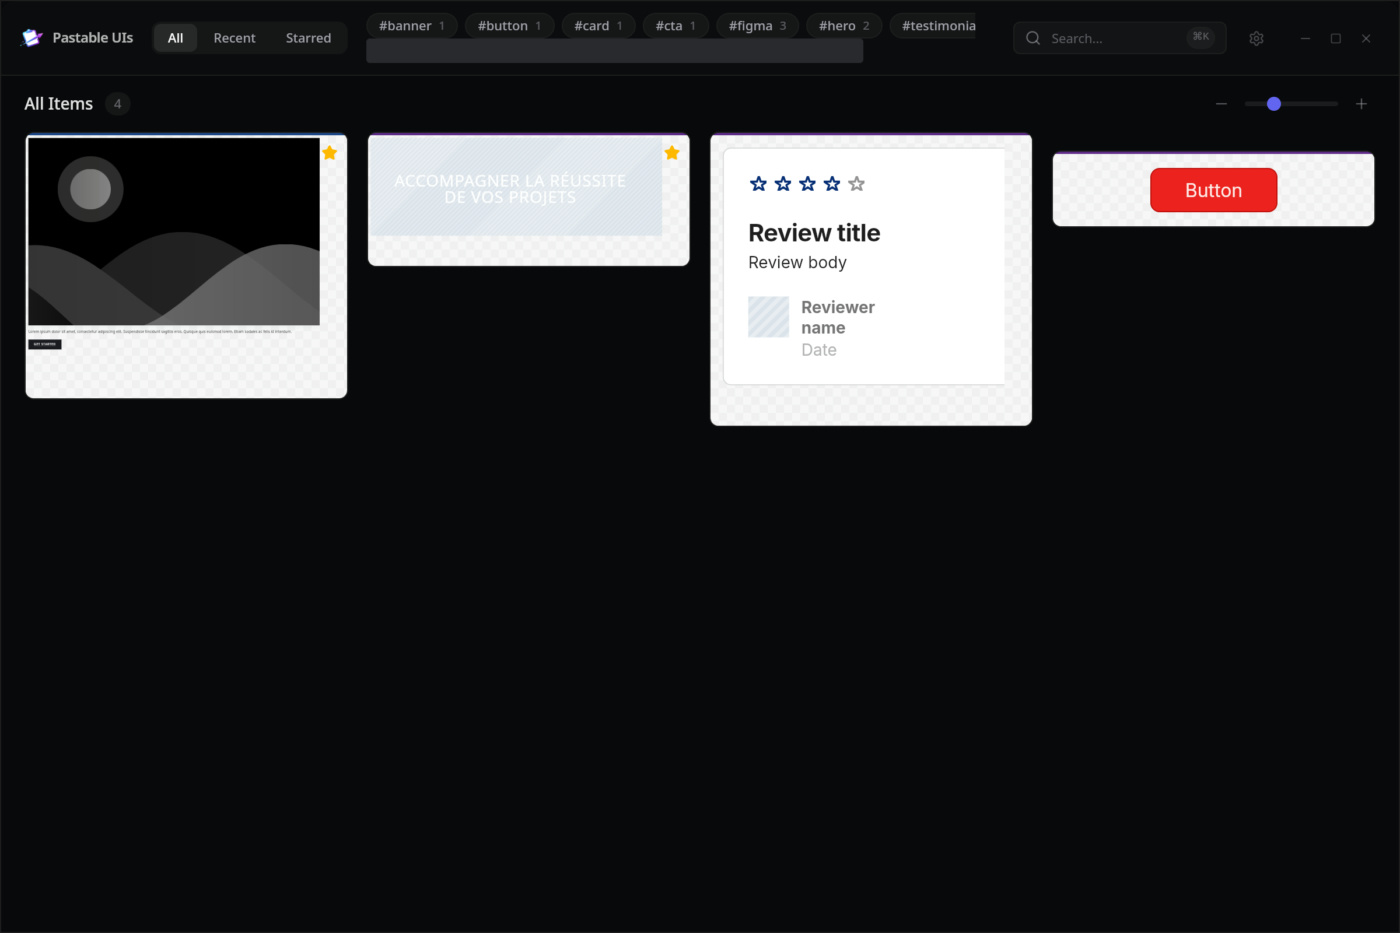
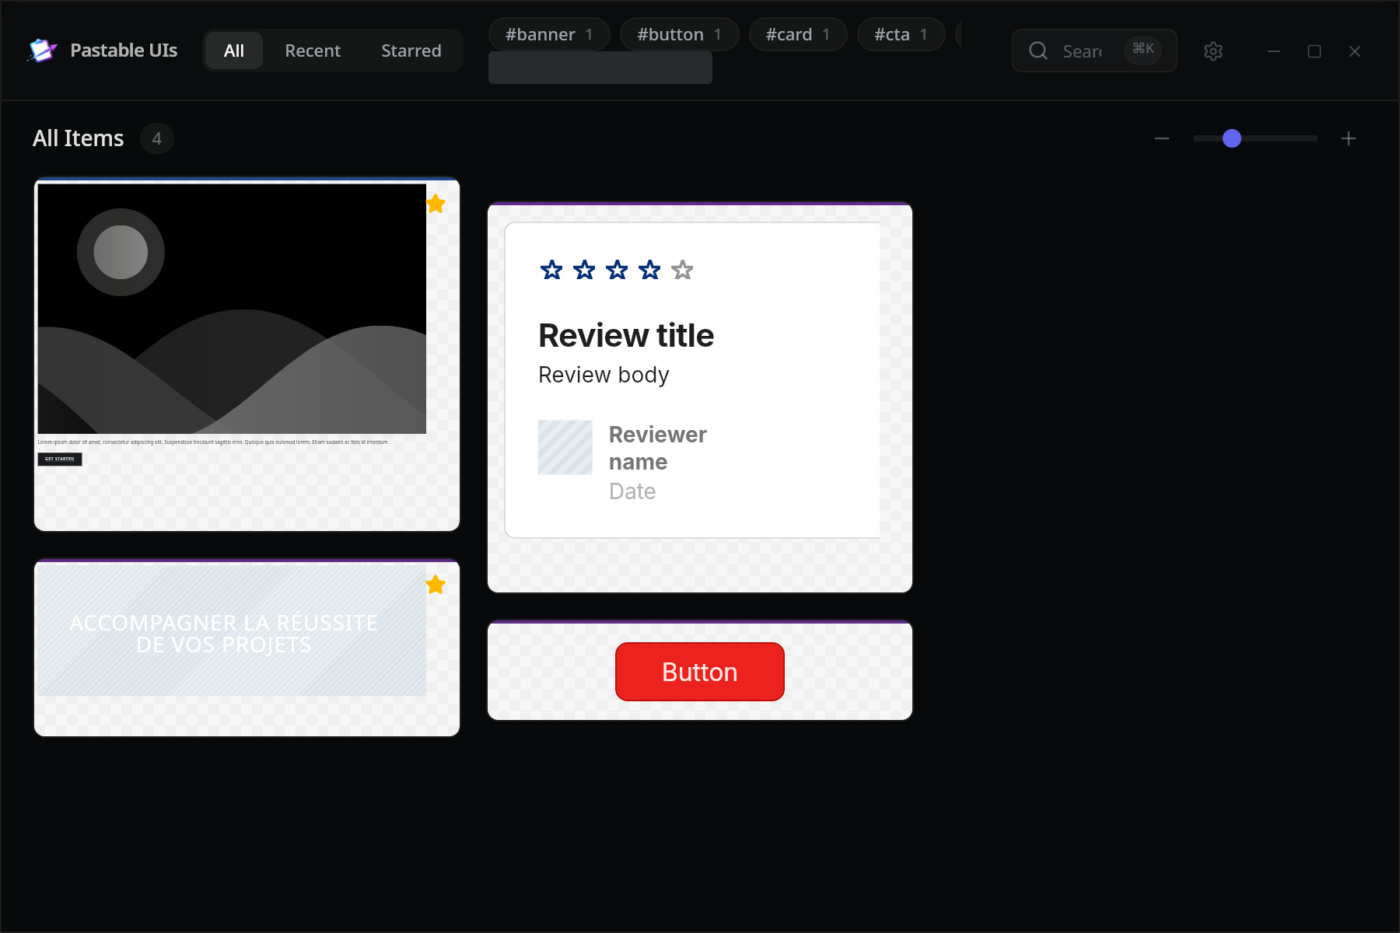
Better screenshot + fix image display
- Tighter window (800x520), items fill the space better
- Fix max-width to 720px + height:auto to prevent squishing

diff --git a/index.html b/index.html
@@ -43,7 +43,7 @@ body{font-family:-apple-system,BlinkMacSystemFont,'Segoe UI',Roboto,sans-serif;b
 
 /* Screenshot */
 .screenshot{padding:48px 0 0;text-align:center}
-.screenshot img{width:100%;max-width:680px;border-radius:12px;border:1px solid var(--border);box-shadow:0 20px 60px rgba(99,102,241,.15),0 4px 20px rgba(0,0,0,.4)}
+.screenshot img{width:100%;max-width:720px;height:auto;border-radius:12px;border:1px solid var(--border);box-shadow:0 20px 60px rgba(99,102,241,.15),0 4px 20px rgba(0,0,0,.4)}
 
 /* Sections */
 section{padding:64px 0}
